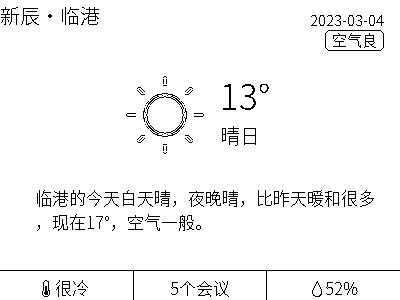
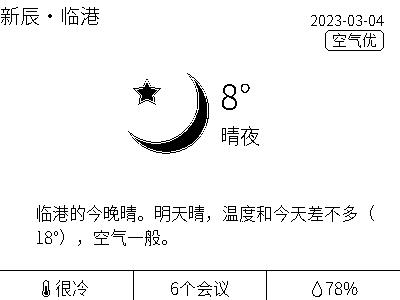
测试

diff --git a/meet/my_meet.py b/meet/my_meet.py
@@ -1,0 +1,86 @@
+import sqlite3
+import time
+from datetime import datetime
+from loguru import logger
+
+from PIL import ImageFont, Image, ImageDraw
+
+from lib.util import write_new_pic
+from meet.meets import leval_four, output_control
+
+conn = sqlite3.connect('meets.db')
+
+
+def get_meeting():
+    now = datetime.now()
+    c = conn.cursor()
+    return c.execute('''SELECT
+                            MEET_NAME,
+                            PEOPLE,
+                            ROOM,
+                            strftime( '%H:%M', START_TIME ) AS s,
+                            strftime( '%H:%M', END_TIME ) AS e 
+                        FROM
+                            "COMPANY" 
+                        WHERE
+                            PEOPLE LIKE '%闫瑞松%' 
+                                AND 
+                            datetime( START_TIME ) >= datetime(?) 
+                                AND 
+                            datetime( END_TIME ) <= datetime(?)
+                        ORDER BY
+                            START_TIME
+                            ''', (datetime(year=now.year, month=now.month, day=now.day, hour=0),
+                                  datetime(year=now.year, month=now.month, day=now.day, hour=23)))
+
+
+def img_init(d):
+    emoji_font = ImageFont.truetype("static/fonts/seguiemj.ttf", 17)
+    d.text((143, 3), '今日您有' + get_meet_count() + "个会议", font=leval_four, fill=0)
+    d.text((115, 10), "👁", font=emoji_font, fill=0)
+
+
+def meet_result_print():
+    logger.info(get_meeting())
+
+
+def handle(flag=0):
+    meet_list = get_meeting().fetchall()
+    logger.info(meet_list)
+    if len(meet_list) == 0:
+        zero_out()
+    else:
+        while len(meet_list) > 0:
+            meet_list = run(flag, meet_list)
+            if len(meet_list) == 0:
+                break
+            time.sleep(600)
+
+
+def run(flag, meet_list):
+    result = Image.new("1", (400, 300), 255)
+    d = ImageDraw.Draw(result)
+    img_init(d)
+    meet_result_print()
+    flag = output_control(d, flag, meet_list)
+    result.save("out.jpg", "jpeg")
+    result.close()
+    write_new_pic()
+    meet_list = meet_list[flag:]
+    return meet_list
+
+
+def zero_out():
+    result = Image.new("1", (400, 300), 255)
+    d = ImageDraw.Draw(result)
+    img_init(d)
+    result.save("out.jpg", "jpeg")
+    result.close()
+
+
+def get_meet_count():
+    return str(len(get_meeting().fetchall()))
+
+
+if __name__ == "__main__":
+    handle()

diff --git a/meet/extract_data.py b/meet/extract_data.py
@@ -12,6 +12,10 @@ def clear():
     conn.commit()
 
 
+def join_people(emcee, people):
+    return emcee + '、' + people if emcee else people
+
+
 def extract_date(str):
     try:
         matches = re.findall("\d\d", str)
@@ -56,13 +60,16 @@ for merged_cell in sheet.merged_cells:
             continue
         if isinstance(timeFlag, datetime.time):
             if timeFlag < datetime.time(hour=12):
-                execute(date + timeFlag.strftime("%H:%M"), date + '12:00', row[2].value, row[4].value, row[5].value)
+                execute(date + timeFlag.strftime("%H:%M"), date + '12:00', row[2].value,
+                        join_people(row[3].value, row[4].value), row[5].value)
             else:
-                execute(date + timeFlag.strftime("%H:%M"), date + '16:30', row[2].value, row[4].value, row[5].value)
+                execute(date + timeFlag.strftime("%H:%M"), date + '16:30', row[2].value,
+                        join_people(row[3].value, row[4].value), row[5].value)
         else:
             timeing = timeFlag.split('-')
             if len(timeing[0]) == 4:
                 timeing[0] = '0' + timeing[0]
             if len(timeing[1]) == 4:
                 timeing[1] = '0' + timeing[1]
-            execute(date + timeing[0], date + timeing[1], row[2].value, row[4].value, row[5].value)
+            execute(date + timeing[0], date + timeing[1], row[2].value, join_people(row[3].value, row[4].value),
+                    row[5].value)

diff --git a/weather/weathers.py b/weather/weathers.py
@@ -5,7 +5,7 @@ import requests
 from PIL import ImageFont, Image, ImageDraw
 from bs4 import BeautifulSoup
 from loguru import logger
-from meet.meet import get_meet_count
+from meet.meets import get_meet_count
 
 fonts_dir = os.path.join(os.path.dirname(os.path.dirname(os.path.realpath(__file__))), '../static/fonts')
 
@@ -60,7 +60,7 @@ def normal_out(w_state, temperature, skycon, describe, comfort, humidity, air_qu
     d.text((332, 28), '空气' + air_quality, font=min_font, fill=0)
     d.text((220, 70), str(int(temperature)) + '°', font=max_font, fill=0)
     d.text((220, 120), skycon, font=leval_three, fill=0)
-    d.multiline_text((35, 185), insert('临港的'+describe), font=leval_four, fill=0)
+    d.multiline_text((35, 200), insert('临港的'+describe), font=leval_four, fill=0)
     d.text((40, 283), '🌡', font=emoji_two_font, fill=0)
     d.text((55, 275), comfort, font=leval_four, fill=0)
     d.text((170, 275), get_meet_count() + "个会议", font=leval_four, fill=0)

diff --git a/app.py b/app.py
@@ -3,22 +3,23 @@ import time
 
 from loguru import logger
 
+from config import CONFIG
 from lib.util import write_new_pic
-from meet import meet
-from weather import weather
+from meet import meets, my_meet
+from weather import weathers
 
 logger.add('log/app/{time}.log', rotation='00:00')
 
-OPERATION_FUN = [weather.handle, meet.handle]
+OPERATION_FUN = [weathers.handle, meets.handle, my_meet.handle]
 
 
 def run():
     while True:
         logger.success("开始爬取数据")
-        OPERATION_FUN[random.randint(0, len(OPERATION_FUN)-1)]()
+        OPERATION_FUN[random.randint(0, len(OPERATION_FUN) - 1)]()
         write_new_pic()
         logger.success("画面准备完毕")
-        time.sleep(600)
+        time.sleep(CONFIG['sleep_time'])
 
 
 if __name__ == '__main__':

diff --git a/main.py b/main.py
@@ -1,18 +1,12 @@
-import datetime
-import os
-from datetime import datetime, time
-
-import requests
-from PIL import ImageFont, Image, ImageDraw
-from bs4 import BeautifulSoup
-
+from datetime import datetime
 
 
 def normal_out(left_top_point=30):
-    start_time=time.fromisoformat('07:50:00')
-    end_time=time.fromisoformat('16:30:00')
-    now_time=time.fromisoformat(datetime.now().strftime('%H:%M:%S'))
-    print(start_time<now_time<end_time)
+    now = datetime.now()
+    start = datetime(year=now.year, month=now.month, day=now.day, hour=0)
+    end = datetime(year=now.year, month=now.month, day=now.day, hour=23)
+    print(start)
+
 
 # 按间距中的绿色按钮以运行脚本。
 if __name__ == "__main__":

diff --git a/meet/meets.py b/meet/meets.py
@@ -5,6 +5,7 @@ from loguru import logger
 
 from PIL import ImageFont, Image, ImageDraw
 
+from config import CONFIG
 from lib.util import write_new_pic
 
 conn = sqlite3.connect('meets.db')
@@ -115,7 +116,7 @@ def handle(flag=0):
             meet_list = run(flag, meet_list)
             if len(meet_list) == 0:
                 break
-            time.sleep(600)
+            time.sleep(CONFIG['sleep_time'])
 
 
 def zero_out():
@@ -153,6 +154,7 @@ def output_control(d, flag, meet_list, left_top_point=30):
         else:
             left_top_point = left_top_point + 60
         flag = flag + 1
+    d.line(((0, left_top_point), (400, left_top_point)), fill=0)
     return flag
 
 

diff --git a/lib/util.py b/lib/util.py
@@ -1,12 +1,8 @@
 import pickle
 from datetime import datetime, time
 
-from loguru import logger
-
-
 def is_work():
-    return time.fromisoformat('07:50:00') < time.fromisoformat(
-        datetime.now().strftime('%H:%M:%S')) < time.fromisoformat('16:30:00')
+    return time.fromisoformat(datetime.now().strftime('%H:%M:%S')) < time.fromisoformat('23:30:00')
 
 
 def set_flag(s=True):

diff --git a/config.py b/config.py
@@ -7,5 +7,6 @@ CONFIG = {
     },
     'host': {
         'host_ip': '103.153.139.194'
-    }
+    },
+    'sleep_time':600,
 }
